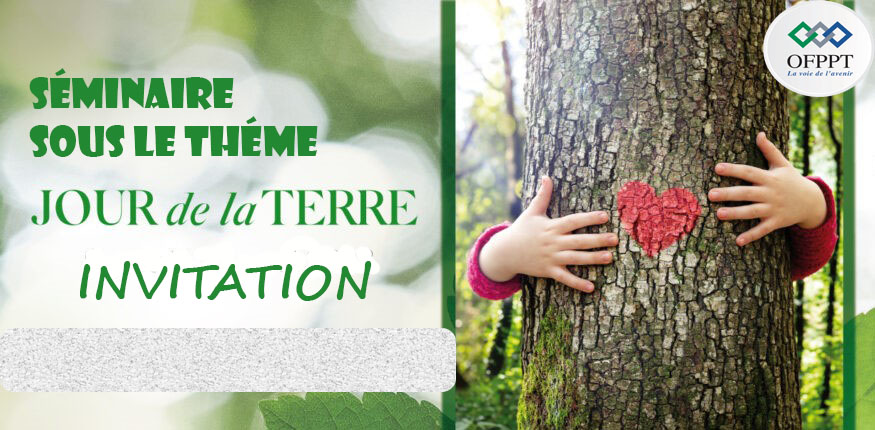
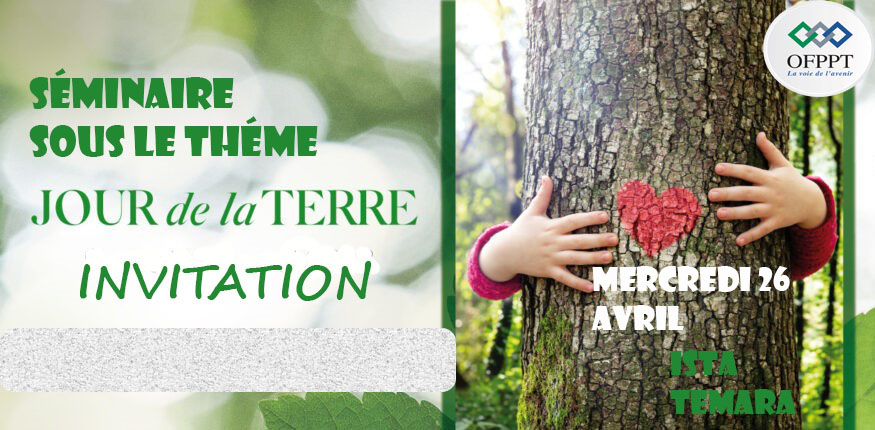
final l version

Changed region(s): [[0.6789, 0.6047, 0.9257, 0.786], [0.7406, 0.907, 0.9257, 0.9674], [0.7406, 0.8163, 0.864, 0.8767]]

diff --git a/index.html b/index.html
@@ -18,7 +18,7 @@
             <button type="button" onclick="generateImage()"  class="submit-btn">Telecharger votre invitaion </button>
         </form>
         <div class="sidebar">
-            <h1>Séminaire Jour de la Terre</h1>
+            <h1>Séminaire : Jour de la Terre</h1>
             <p>Madame, Monsieur, Nous avons le plaisir de vous inviter au séminaire sous le théme "Jour de la terre" qui se tiendra le 26 Avril 2023, à l'ISTA Temara. <br>Il vous suffit de saisir votre nom et prénom dans la zone de texte pour télécharger votre invitation.</p>
             <h2>HAPPY EARTH DAY </h2>
         </div>

diff --git a/style.css b/style.css
@@ -3,6 +3,7 @@ h1 {
   font-family: "Urbanist";
   font-weight: 600;
   color: #ffffff;
+  text-align: center;
 }
 
 h2 {
